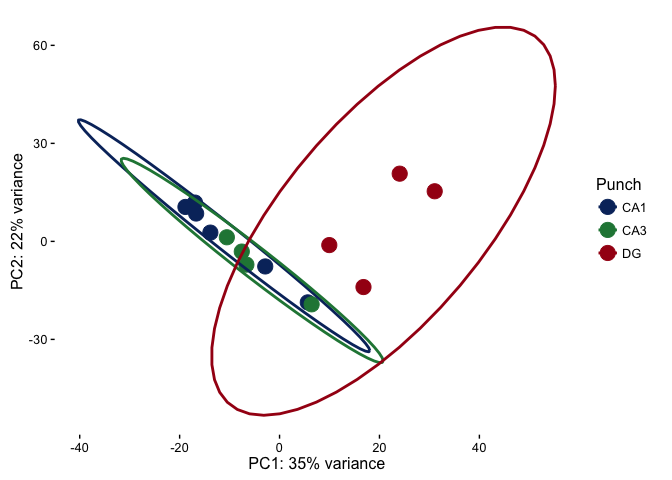
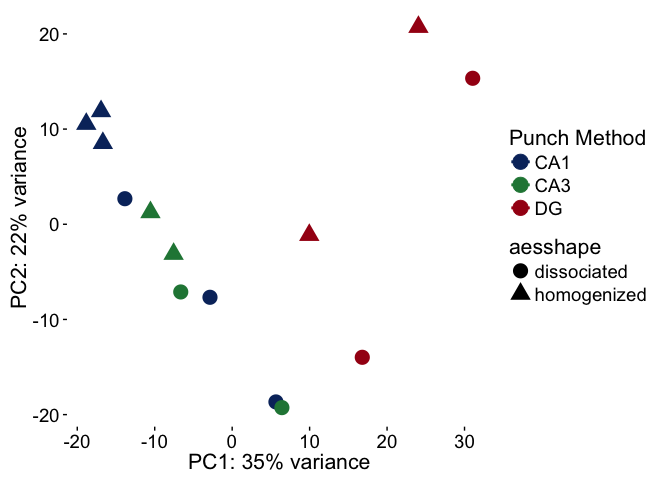
better pca plots

diff --git a/bin/01_DissociationTest.md b/bin/01_DissociationTest.md
@@ -19,7 +19,7 @@ CA1 and CA3 samples have similar transcriptomes. The homogenized CA1
 samples have the most similar transcriptonal profiles as evidenced by
 their tight clustering.
 
-![](../figures/01_dissociationtest/PCA-1.png)![](../figures/01_dissociationtest/PCA-2.png)![](../figures/01_dissociationtest/PCA-3.png)![](../figures/01_dissociationtest/PCA-4.png)![](../figures/01_dissociationtest/PCA-5.png)![](../figures/01_dissociationtest/PCA-6.png)![](../figures/01_dissociationtest/PCA-7.png)![](../figures/01_dissociationtest/PCA-8.png)
+![](../figures/01_dissociationtest/PCA-1.png)![](../figures/01_dissociationtest/PCA-2.png)
 
 This Venn Diagram shows the number of differentially expressed by
 contrast described above each oval. The most number of genes are
